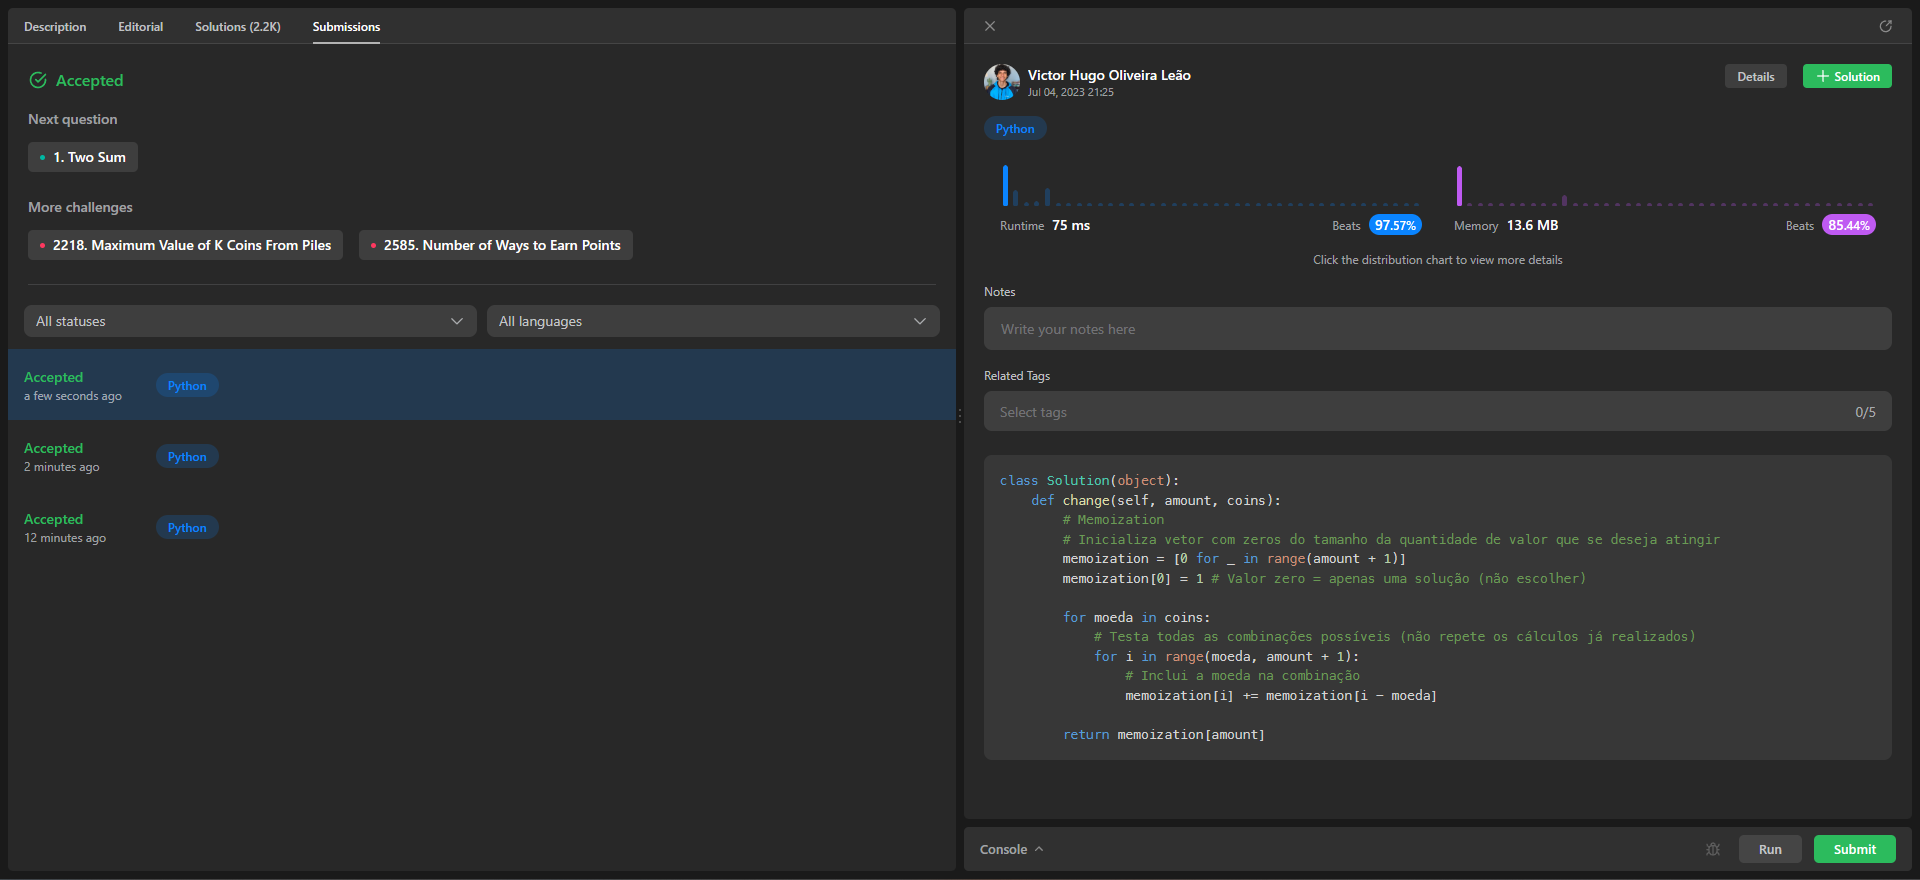
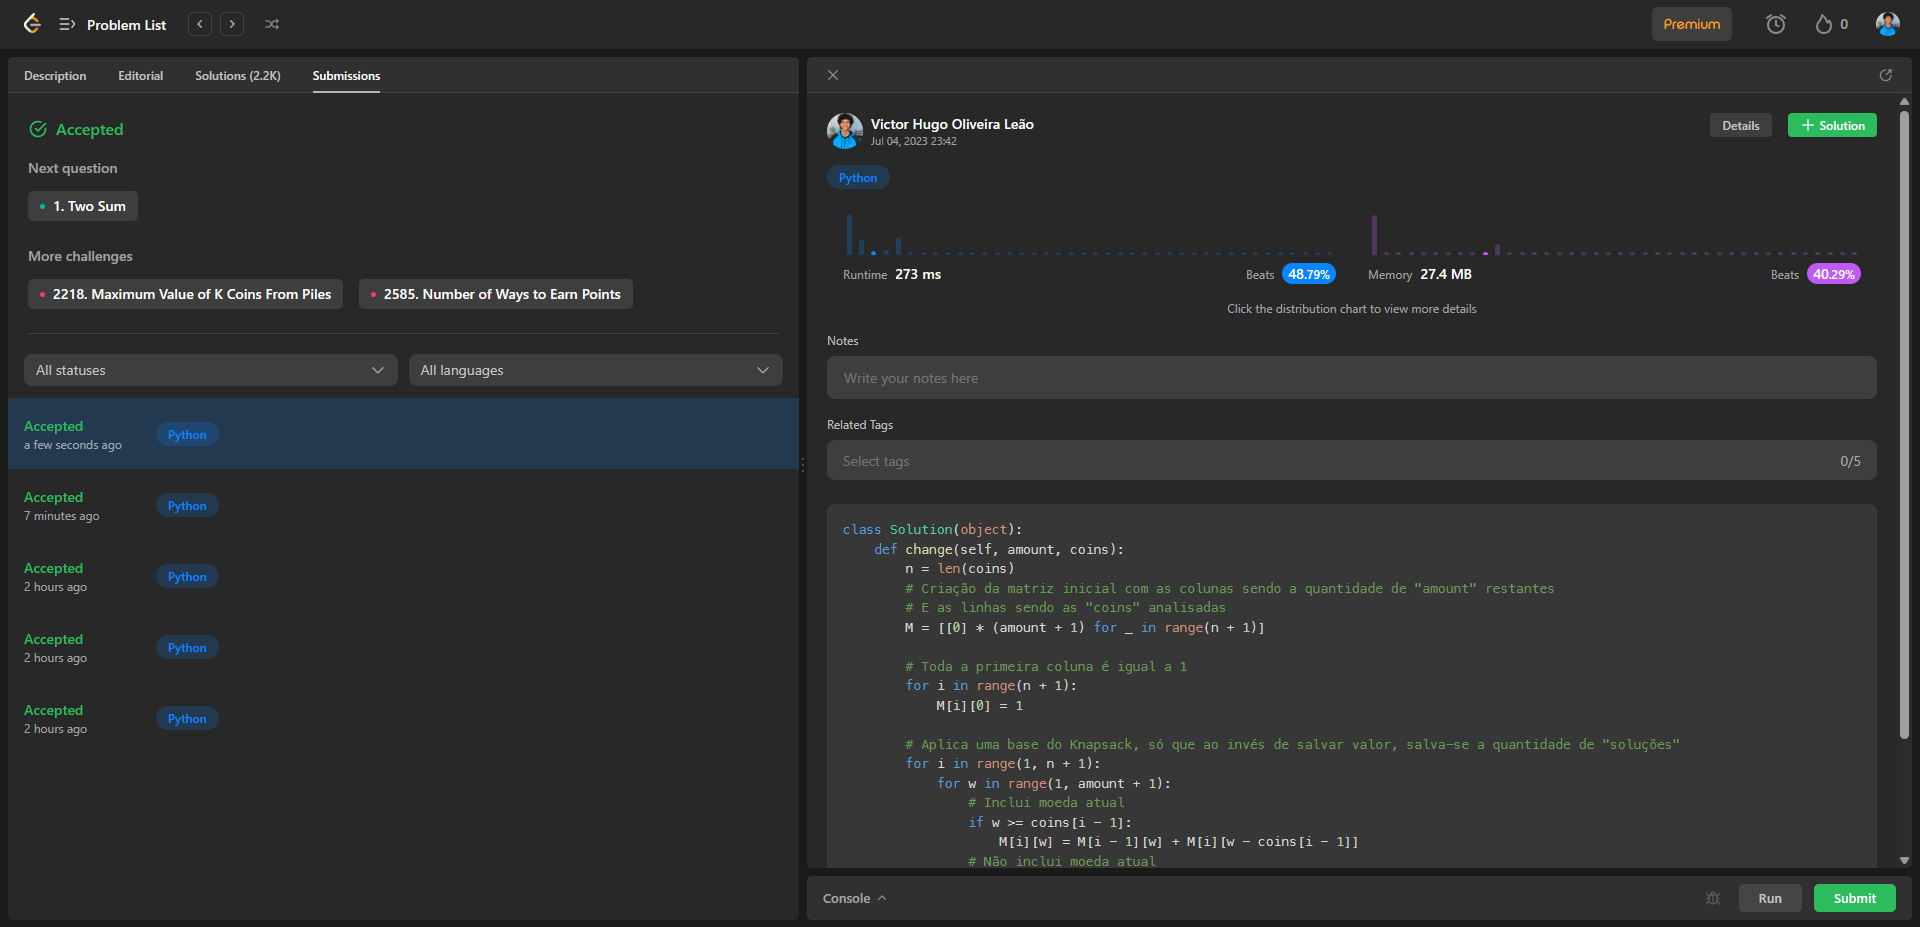
solucao coin change levando em consideracao o algoritmo de knapsack

diff --git a/CoinChange/CoinChange.py b/CoinChange/CoinChange.py
@@ -1,14 +1,23 @@
 class Solution(object):
     def change(self, amount, coins):
-        # Memoization
-        # Inicializa vetor com zeros do tamanho da quantidade de valor que se deseja atingir
-        memoization = [0 for _ in range(amount + 1)]
-        memoization[0] = 1 # Valor zero = apenas uma solução (não escolher)
-        
-        for moeda in coins:
-            # Testa todas as combinações possíveis (não repete os cálculos já realizados)
-            for i in range(moeda, amount + 1):
-                # Inclui a moeda na combinação
-                memoization[i] += memoization[i - moeda]
-        
-        return memoization[amount]
+        n = len(coins)
+        # Criação da matriz inicial com as colunas sendo a quantidade de "amount" restantes 
+        # E as linhas sendo as "coins" analisadas
+        M = [[0] * (amount + 1) for _ in range(n + 1)]
+
+        # Toda a primeira coluna é igual a 1
+        for i in range(n + 1):
+            M[i][0] = 1
+
+        # Aplica uma base do Knapsack, só que ao invés de salvar valor, salva-se a quantidade de "soluções"
+        for i in range(1, n + 1):
+            for w in range(1, amount + 1):
+                # Inclui moeda atual
+                if w >= coins[i - 1]:
+                    M[i][w] = M[i - 1][w] + M[i][w - coins[i - 1]]
+                # Não inclui moeda atual
+                else:
+                    M[i][w] = M[i - 1][w]
+
+        # Retorna a quantidade de combinações possíveis para obter o "amount" desejado
+        return M[n][amount]
